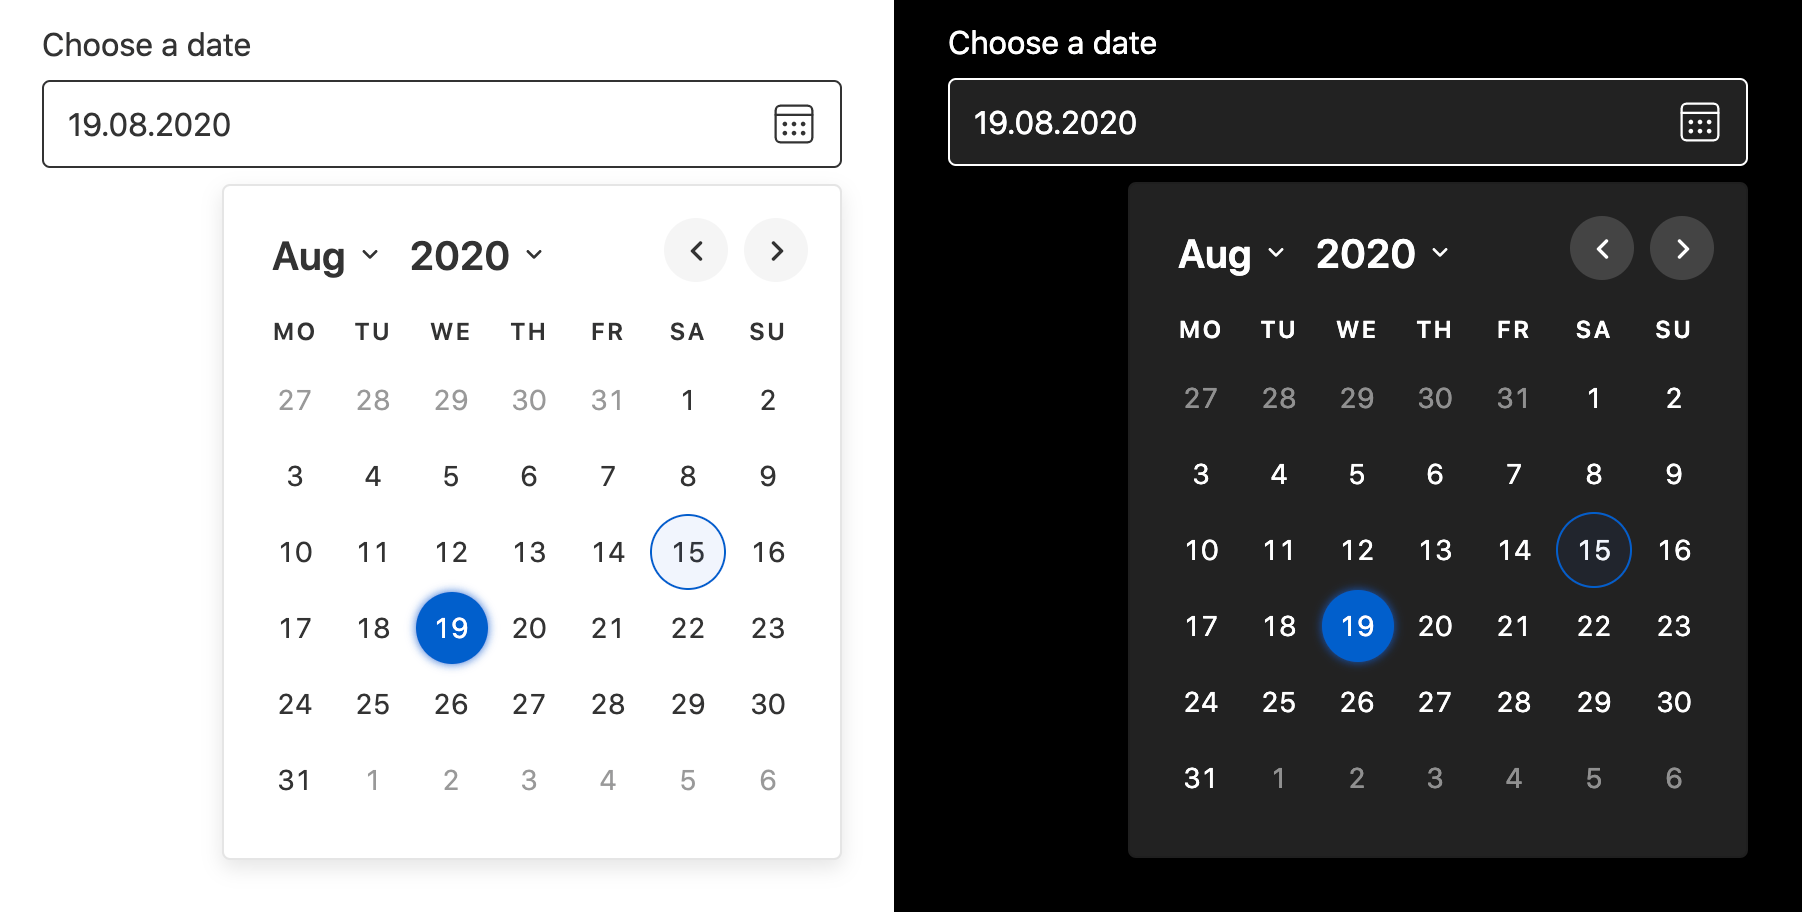
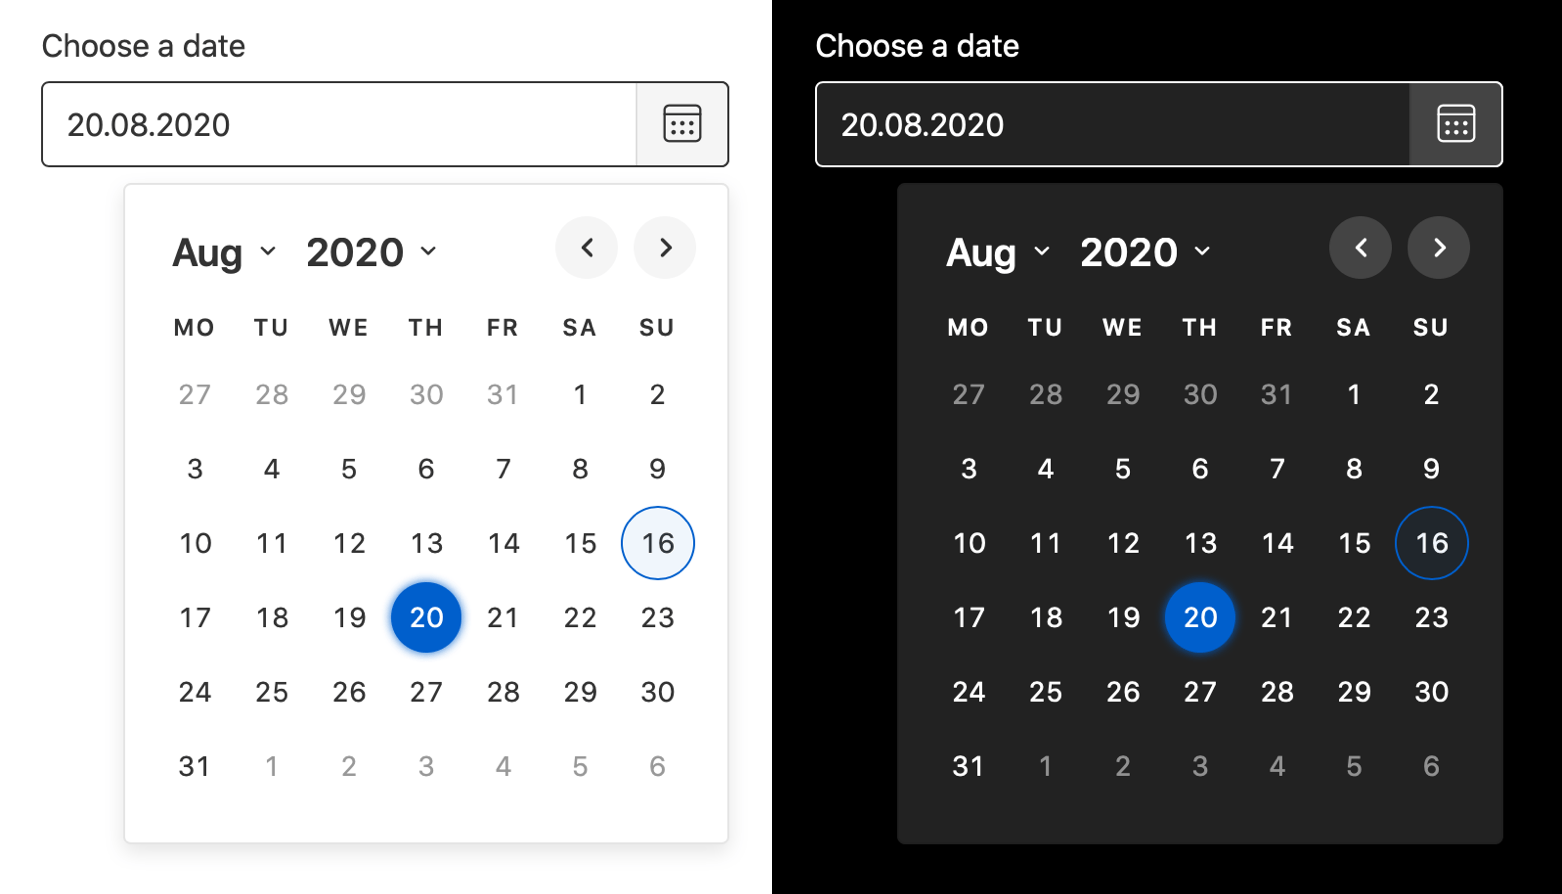
Adds button like toggle

diff --git a/src/components/duet-date-picker/duet-date-picker.scss b/src/components/duet-date-picker/duet-date-picker.scss
@@ -26,7 +26,7 @@
 
 .duet-date__input {
   font-family: var(--duet-font);
-  padding: 12px 48px 12px 12px;
+  padding: 12px 60px 12px 12px;
   width: 100%;
 }
 
@@ -45,19 +45,27 @@
   -webkit-user-select: none;
   align-items: center;
   appearance: none;
-  background: transparent;
+  background: var(--duet-color-button);
+  box-shadow: inset 1px 0 0 rgba(0, 0, 0, 0.1);
   border: 0;
+  border-bottom-right-radius: var(--duet-radius);
+  border-top-right-radius: var(--duet-radius);
   color: var(--duet-color-text);
   cursor: pointer;
   display: flex;
-  height: 100%;
+  height: calc(100% - 2px);
   justify-content: center;
   position: absolute;
-  right: 0;
-  top: 0;
+  right: 1px;
+  top: 1px;
   user-select: none;
   width: 48px;
   z-index: 2;
+
+  &:focus {
+    box-shadow: 0 0 0 2px var(--duet-color-primary);
+    outline: 0;
+  }
 }
 
 // ---------------------------------------------
@@ -433,6 +441,26 @@
     @media (min-width: 36em) {
       opacity: 1;
     }
+  }
+}
+
+// ---------------------------------------------
+// DUET DATE PICKER __ INPUT
+// ---------------------------------------------
+
+.duet-date__input {
+  -webkit-appearance: none;
+  appearance: none;
+  border-radius: var(--duet-radius);
+  color: var(--duet-color-text);
+  border: 1px solid var(--duet-color-text);
+  background: var(--duet-color-surface);
+  font-size: 100%;
+
+  &:focus {
+    box-shadow: 0 0 0 1px var(--duet-color-primary);
+    border-color: var(--duet-color-primary);
+    outline: 0;
   }
 }
 

diff --git a/hydrate/tests/fixtures/kitchen-sink.html b/hydrate/tests/fixtures/kitchen-sink.html
@@ -75,14 +75,6 @@
         margin-bottom: 1.25rem;
       }
 
-      .duet-date__input {
-        border-radius: var(--duet-radius);
-        color: var(--duet-color-text);
-        border: 1px solid var(--duet-color-text);
-        background: var(--duet-color-surface);
-        font-size: 100%;
-      }
-
       ::-webkit-input-placeholder {
         color: #666;
         opacity: 1 !important;

diff --git a/src/index.html b/src/index.html
@@ -97,14 +97,6 @@
         margin-bottom: 1.25rem;
       }
 
-      .duet-date__input {
-        border-radius: var(--duet-radius);
-        color: var(--duet-color-text);
-        border: 1px solid var(--duet-color-text);
-        background: var(--duet-color-surface);
-        font-size: 100%;
-      }
-
       ::-webkit-input-placeholder {
         color: #666;
         opacity: 1 !important;

diff --git a/README.md b/README.md
@@ -119,9 +119,9 @@ Duet Date Picker’s keyboard support is built to closely follow [W3C Date Picke
 Integrating Duet Date Picker to a project without a JavaScript framework is very straight forward. If you’re working on a simple HTML page, you can start using Duet Date Picker immediately by adding these tags to the `<head>`:
 
 ```html
-<script type="module" src="https://cdn.jsdelivr.net/npm/@duetds/date-picker@1.0.0-alpha.15/dist/duet/duet.esm.js"></script>
-<script nomodule src="https://cdn.jsdelivr.net/npm/@duetds/date-picker@1.0.0-alpha.15/dist/duet/duet.js"></script>
-<link rel="stylesheet" href="https://cdn.jsdelivr.net/npm/@duetds/date-picker@1.0.0-alpha.15/dist/duet/themes/default.css" />
+<script type="module" src="https://cdn.jsdelivr.net/npm/@duetds/date-picker@1.0.0-alpha.16/dist/duet/duet.esm.js"></script>
+<script nomodule src="https://cdn.jsdelivr.net/npm/@duetds/date-picker@1.0.0-alpha.16/dist/duet/duet.js"></script>
+<link rel="stylesheet" href="https://cdn.jsdelivr.net/npm/@duetds/date-picker@1.0.0-alpha.16/dist/duet/themes/default.css" />
 ```
 
 Once included, Duet Date Picker can be used in your markup like any other regular HTML element:
@@ -437,7 +437,7 @@ selected date Sat Aug 15 2020 00:00:00 GMT+0300 (Eastern European Summer Time)
 Duet Date Picker uses CSS Custom Properties to make it easy to theme the picker. The component ships with a default theme that you can import either from the NPM package or directly from a CDN like JSDelivr:
 
 ```html
-<link rel="stylesheet" href="https://cdn.jsdelivr.net/npm/@duetds/date-picker@1.0.0-alpha.15/dist/duet/themes/default.css" />
+<link rel="stylesheet" href="https://cdn.jsdelivr.net/npm/@duetds/date-picker@1.0.0-alpha.16/dist/duet/themes/default.css" />
 ```
 
 The above CSS file provides the following Custom Properties that you can override with your own properties:
@@ -525,14 +525,14 @@ For more details, please see [Stencil.js documentation](https://stenciljs.com/do
 If you wish to make sure Duet Date Picker shows up as quickly as possible when loading the scripts from JSDelivr CDN, you can preload the key parts using link `rel="preload"`. To do this, add these tags in the `<head>` of your webpage before any other `<script>` or `<link>` tags:
 
 ```html
-<link rel="preload" href="https://cdn.jsdelivr.net/npm/@duetds/date-picker@1.0.0-alpha.15/dist/duet/duet.esm.js" as="script" crossorigin="anonymous" />
-<link rel="preload" href="https://cdn.jsdelivr.net/npm/@duetds/date-picker@1.0.0-alpha.15/dist/duet/duet-date-picker.entry.js" as="script" crossorigin="anonymous" />
+<link rel="preload" href="https://cdn.jsdelivr.net/npm/@duetds/date-picker@1.0.0-alpha.16/dist/duet/duet.esm.js" as="script" crossorigin="anonymous" />
+<link rel="preload" href="https://cdn.jsdelivr.net/npm/@duetds/date-picker@1.0.0-alpha.16/dist/duet/duet-date-picker.entry.js" as="script" crossorigin="anonymous" />
 ```
 
 In case you’re also using one of the included themes, you can preload them the same way using the below tag:
 
 ```html
-<link rel="preload" href="https://cdn.jsdelivr.net/npm/@duetds/date-picker@1.0.0-alpha.15/dist/duet/themes/default.css" as="style" />
+<link rel="preload" href="https://cdn.jsdelivr.net/npm/@duetds/date-picker@1.0.0-alpha.16/dist/duet/themes/default.css" as="style" />
 ```
 
 ## Contributing
